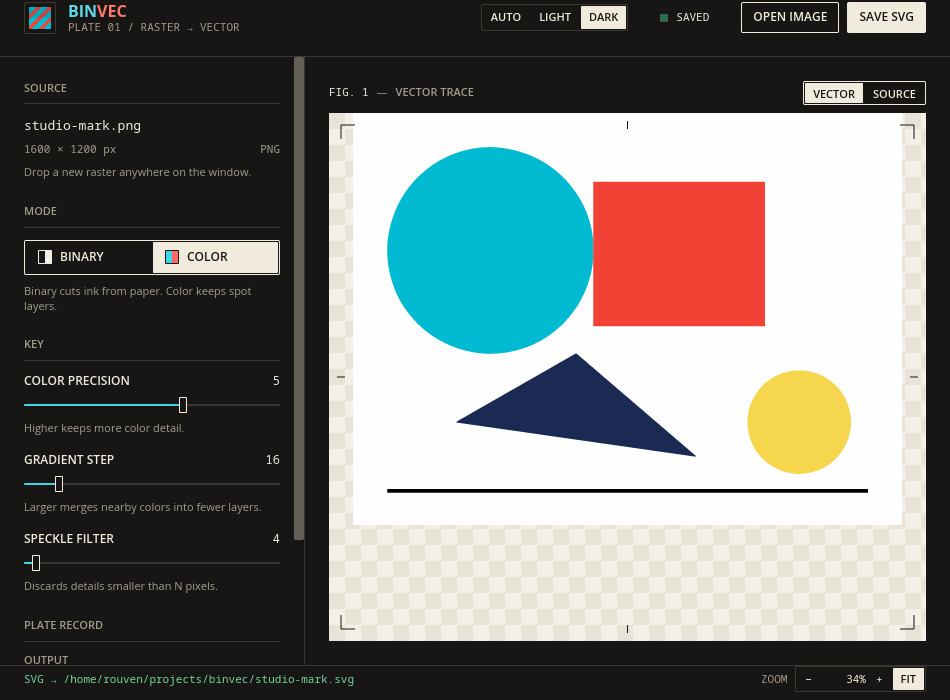
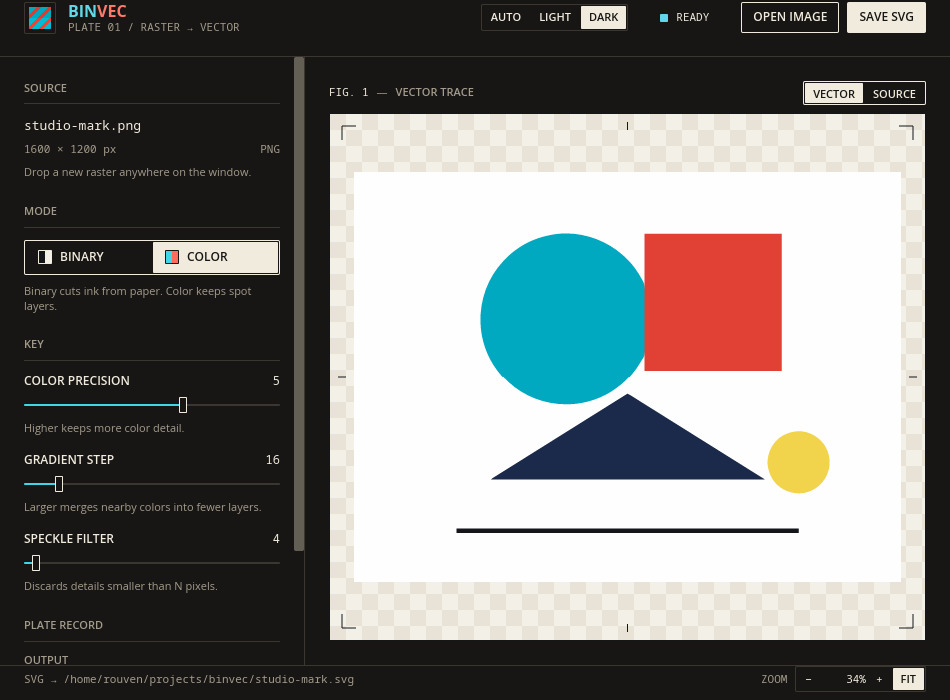
fix(ui): address review findings and refresh captures
- Clear drag hover after a successful drop.
- Resolve status colors from the active theme; dim disabled zoom labels.
- Frame the plate, center FIT media, and add two-axis panning.
- Keep source-proof zoom available after trace failure; make disabled proof segments inert.
- Bound vector-proof raster size and keep manual zoom monotonic outside the FIT range.
- Add ochre-night metadata; qualify same-scale and zoom docs.
- Refresh light/dark and state captures.

diff --git a/src/main.rs b/src/main.rs
@@ -32,7 +32,21 @@ const FIGURE_PADDING: f32 = 24.0;
 const CAPTION_HEIGHT: f32 = 24.0;
 const CAPTION_GAP: f32 = 8.0;
 const PLATE_MARGIN: f32 = 24.0;
+const PLATE_FRAME: f32 = 1.0;
 const CHROME_RULES: f32 = 2.0;
+
+/// Manual zoom window: `−` / `+` step by `ZOOM_STEP` between these bounds.
+const MIN_ZOOM: f32 = 0.05;
+const MAX_ZOOM: f32 = 4.0;
+const ZOOM_STEP: f32 = 1.25;
+
+/// Logical-pixel ceiling for the vector proof's display box. iced_wgpu
+/// rasterizes SVG content at the widget bounds times the window scale factor
+/// on every size change, so the vector proof is capped by both its longest
+/// edge and its area to keep each raster allocation bounded. The source proof
+/// draws a fixed texture and keeps the full manual zoom range.
+const VECTOR_RASTER_MAX_EDGE: f32 = 2048.0;
+const VECTOR_RASTER_MAX_PIXELS: f32 = 4.0 * 1024.0 * 1024.0;
 
 const PLATE_PAPER: Color = Color::from_rgb8(0xF3, 0xF0, 0xE7);
 const PLATE_PAPER_RAISED: Color = Color::from_rgb8(0xF8, 0xF5, 0xEC);
@@ -448,6 +462,7 @@ impl UiState {
                     return Task::none();
                 };
 
+                self.drag_hovering = false;
                 self.image_path = Some(path.clone());
                 self.source_handle = Some(RasterHandle::from_path(path.clone()));
                 self.source_readable = false;
@@ -581,21 +596,25 @@ impl UiState {
                 Task::none()
             }
             UiMessage::ZoomIn => {
-                if self.source_size.is_none() || self.render_error.is_some() {
+                if !self.zoom_available() {
                     return Task::none();
                 }
+                // Step from the unclamped scale so a FIT scale outside
+                // 5%–400% still moves in the direction of the control.
                 let current = self.effective_zoom();
                 self.fit_zoom = false;
-                self.zoom = (current * 1.25).clamp(0.05, 4.0);
+                self.zoom = (current * ZOOM_STEP).clamp(MIN_ZOOM, MAX_ZOOM).max(current);
                 Task::none()
             }
             UiMessage::ZoomOut => {
-                if self.source_size.is_none() || self.render_error.is_some() {
+                if !self.zoom_available() {
                     return Task::none();
                 }
+                // Step from the unclamped scale and never grow past it, so a
+                // FIT scale outside 5%–400% cannot invert the direction.
                 let current = self.effective_zoom();
                 self.fit_zoom = false;
-                self.zoom = (current / 1.25).clamp(0.05, 4.0);
+                self.zoom = (current / ZOOM_STEP).clamp(MIN_ZOOM, MAX_ZOOM).min(current);
                 Task::none()
             }
             UiMessage::ZoomFit => {
@@ -947,6 +966,7 @@ impl UiState {
         container(stack)
             .width(Length::Fill)
             .height(Length::Fill)
+            .padding(PLATE_FRAME)
             .clip(true)
             .style(plate_frame_style)
             .into()
@@ -970,6 +990,7 @@ impl UiState {
                         .into(),
                     size,
                     viewport,
+                    false,
                 ),
                 None => container(
                     image(handle.clone())
@@ -999,6 +1020,7 @@ impl UiState {
                     .into(),
                 size,
                 viewport,
+                true,
             );
         }
 
@@ -1014,9 +1036,20 @@ impl UiState {
         media: Element<'a, UiMessage>,
         source_size: (u32, u32),
         viewport: Size,
+        bound_raster: bool,
     ) -> Element<'a, UiMessage> {
         let zoom = self.effective_zoom();
         let display = Size::new(source_size.0 as f32 * zoom, source_size.1 as f32 * zoom);
+        // iced_wgpu re-rasterizes SVG content at the widget bounds times the
+        // window scale factor, keyed by size, so the vector proof's display
+        // box is capped; manual zoom stays at 5%–400%, but the raster request
+        // stops growing once the cap is reached. Scroll geometry follows the
+        // capped box, so the plate never holds a small proof in a large void.
+        let display = if bound_raster {
+            Self::bounded_vector_display(display)
+        } else {
+            display
+        };
         let padding = 2.0 * PLATE_MARGIN;
         let content_size = Size::new(
             (display.width + padding).max(viewport.width),
@@ -1030,14 +1063,44 @@ impl UiState {
         )
         .width(Length::Fixed(content_size.width))
         .height(Length::Fixed(content_size.height))
-        .center_x(Length::Fill)
-        .center_y(Length::Fill);
+        .align_x(Alignment::Center)
+        .align_y(Alignment::Center);
 
         scrollable(inner)
+            .direction(scrollable::Direction::Both {
+                vertical: scrollable::Scrollbar::new(),
+                horizontal: scrollable::Scrollbar::new(),
+            })
             .width(Length::Fill)
             .height(Length::Fill)
             .style(scrollable_style)
             .into()
+    }
+
+    /// Bounds the raster iced_wgpu allocates for the vector proof. The display
+    /// box is capped by its longest edge and by its area, both in logical
+    /// pixels, so the raster stays a few tens of MiB even on a HiDPI window.
+    /// Sizes at or below both caps keep the full display extent, so the vector
+    /// proof stays aligned with the source proof at normal zoom.
+    fn bounded_vector_display(display: Size) -> Size {
+        let area = display.width * display.height;
+        if area <= 0.0 {
+            return display;
+        }
+
+        let longest = display.width.max(display.height);
+        let mut scale = (VECTOR_RASTER_MAX_EDGE / longest).min(1.0);
+        if area * scale * scale > VECTOR_RASTER_MAX_PIXELS {
+            scale = (VECTOR_RASTER_MAX_PIXELS / area).sqrt();
+        }
+        if scale >= 1.0 {
+            return display;
+        }
+
+        Size::new(
+            (display.width * scale).round().max(1.0),
+            (display.height * scale).round().max(1.0),
+        )
     }
 
     fn empty_state(&self) -> Element<'_, UiMessage> {
@@ -1453,7 +1516,7 @@ impl UiState {
 
     fn zoom_controls(&self) -> Element<'_, UiMessage> {
         let c = self.colors();
-        let enabled = self.source_size.is_some() && self.render_error.is_none();
+        let enabled = self.zoom_available();
         let percent = if enabled {
             format!("{:.0}%", self.effective_zoom() * 100.0)
         } else {
@@ -1489,24 +1552,25 @@ impl UiState {
     }
 
     fn status(&self) -> (&'static str, Color) {
+        let c = self.colors();
         if matches!(self.save_result, Some(Err(_))) {
-            ("SAVE FAILED", PLATE_RED_DARK)
+            ("SAVE FAILED", c.red_text)
         } else if self.render_error.is_some() {
             if self.source_size.is_some() {
-                ("TRACE FAILED", PLATE_RED_DARK)
+                ("TRACE FAILED", c.red_text)
             } else {
-                ("READ FAILED", PLATE_RED_DARK)
+                ("READ FAILED", c.red_text)
             }
         } else if self.is_saving {
-            ("WRITING", PLATE_INK)
+            ("WRITING", c.shell_text)
         } else if self.is_rendering {
-            ("TRACING", PLATE_INK)
+            ("TRACING", c.shell_text)
         } else if matches!(self.save_result, Some(Ok(_))) {
-            ("SAVED", PLATE_GREEN)
+            ("SAVED", c.green)
         } else if self.vector_handle.is_some() {
-            ("READY", PLATE_TEAL_DARK)
+            ("READY", c.teal_text)
         } else {
-            ("EMPTY", PLATE_MUTED)
+            ("EMPTY", c.shell_muted)
         }
     }
 
@@ -1531,12 +1595,18 @@ impl UiState {
 
     fn plate_viewport(&self) -> Size {
         Size::new(
-            (self.window_size.width - KEY_WIDTH - KEY_RULE - 2.0 * FIGURE_PADDING).max(120.0),
+            (self.window_size.width
+                - KEY_WIDTH
+                - KEY_RULE
+                - 2.0 * FIGURE_PADDING
+                - 2.0 * PLATE_FRAME)
+                .max(120.0),
             (self.window_size.height
                 - TOP_BAR_HEIGHT
                 - BOTTOM_BAR_HEIGHT
                 - CHROME_RULES
                 - 2.0 * FIGURE_PADDING
+                - 2.0 * PLATE_FRAME
                 - CAPTION_HEIGHT
                 - CAPTION_GAP)
                 .max(120.0),
@@ -1560,6 +1630,14 @@ impl UiState {
             self.fit_scale()
         } else {
             self.zoom
+        }
+    }
+
+    /// Whether the visible proof can be zoomed and panned.
+    fn zoom_available(&self) -> bool {
+        match self.proof {
+            Proof::Vector => self.vector_handle.is_some(),
+            Proof::Source => self.source_readable && self.source_handle.is_some(),
         }
     }
 
@@ -1957,6 +2035,7 @@ fn proof_button<'a>(
     enabled: bool,
     on_press: Option<UiMessage>,
 ) -> Element<'a, UiMessage> {
+    let on_press = enabled.then_some(on_press).flatten();
     button(text(label).size(11).font(SEMIBOLD).color(if active {
         c.primary_text
     } else if enabled {
@@ -1975,11 +2054,12 @@ fn zoom_button<'a>(
     label: &'a str,
     on_press: Option<UiMessage>,
 ) -> Element<'a, UiMessage> {
+    let enabled = on_press.is_some();
     button(
         text(label)
             .size(11)
             .font(Font::MONOSPACE)
-            .color(c.shell_text),
+            .color(if enabled { c.shell_text } else { c.shell_muted }),
     )
     .padding([4, 8])
     .on_press_maybe(on_press)

diff --git a/DESIGN.md b/DESIGN.md
@@ -221,7 +221,7 @@ The mode swatch is a 16×16 split square: ink/paper for BINARY, teal/red for COL
 - **State copy:** the empty, tracing, and failure blocks sit on a borderless paper knockout, so muted ink is never set directly over the checkerboard or the hatch.
 - **Tracing:** 3px outward registration offset on all four corners and all four edge ticks; a 1px teal scan line with a 6px teal wash sweeps the plate. When the render lands, the ticks settle back into register over ~96ms.
 - **No data / failure:** 45-degree hairline hatching at 14px spacing over the checkerboard.
-- **Zoom:** `FIT` is the default; `−` / `+` step by 1.25× between 5% and 400%; the plate scrolls to pan when the media exceeds the viewport.
+- **Zoom:** `FIT` is the default; `−` / `+` step by 1.25× between 5% and 400%, stepping from the unclamped current scale and never moving against the control: below 5%, `−` holds and `+` clamps to 5%; above 400%, `+` holds and `−` clamps to 400%; the plate scrolls to pan when the media exceeds the viewport. The vector proof's display box is capped at 2048 px on its longest edge and 4.2 M logical px of area, so its re-rasterized pixmap stays bounded at high zoom; the source proof keeps the full range.
 
 ### Theme Control
 A compact 2px-padded segment in the title block: `AUTO / LIGHT / DARK`. The active half is the current primary fill (ink in light, paper in dark); the frame is a hairline in the shell. Auto is the default; the explicit choice is persisted. The control sits before the live status and always shows the selected policy, while the client area shows the resolved mode.
@@ -237,7 +237,7 @@ The four crop corners are the state display. They sit 3px out of register while 
 ### Do:
 - **Do** keep the drawing as the largest, quietest surface in the window.
 - **Do** set every value, path, dimension, status, and mode name in mono.
-- **Do** show SOURCE and VECTOR at the same scale so the comparison is honest.
+- **Do** show SOURCE and VECTOR at the same scale so the comparison is honest, except above the vector proof's display cap.
 - **Do** keep the key scrollable and the title/record strips fixed at 800×600.
 - **Do** use the brand teal and red as swatches and semantic state, not as text on paper.
 - **Do** place state copy on a paper knockout. Muted ink directly over the checkerboard is below AA.

diff --git a/README.md b/README.md
@@ -16,7 +16,7 @@
 
 * Convert raster graphics to vector graphics with live previewing
 * Drag-and-drop image loading and a fit/zoom preview with panning
-* A source/vector proof toggle to compare the raster and the trace at the same scale
+* A source/vector proof toggle to compare the raster and the trace at the same scale, except above the vector proof's display cap
 * Automatic re-render with queued changes, so the preview never disagrees with the controls
 * Composed empty, tracing, and error states
 * Automatic light/dark theme that follows the OS, with a persisted AUTO / LIGHT / DARK override
